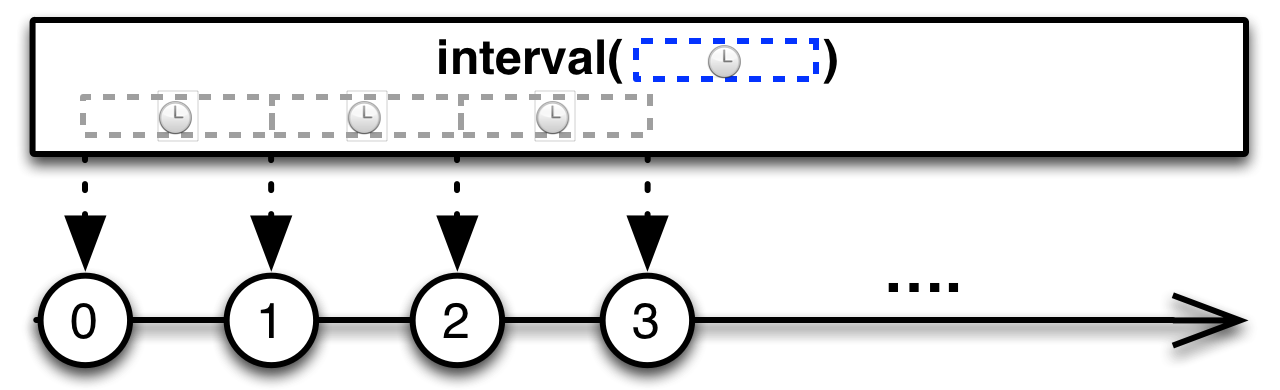
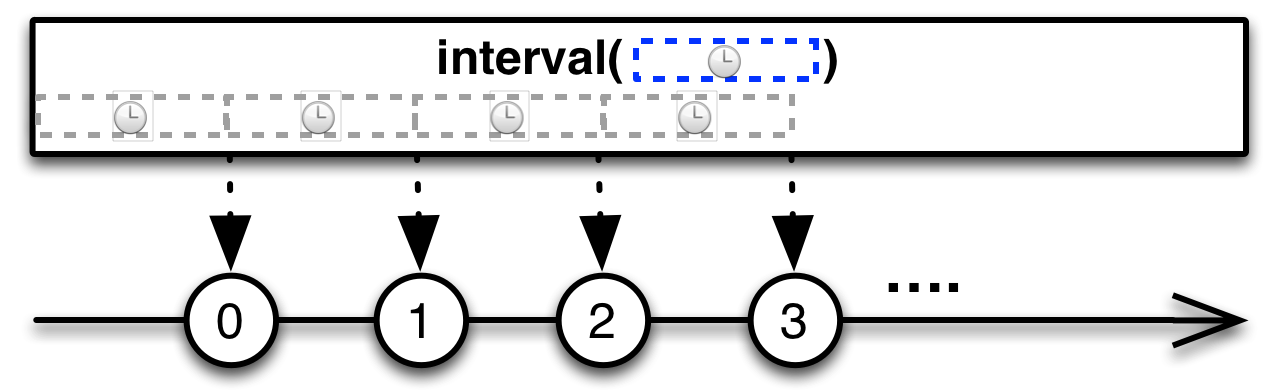
Correcting interval diagrams & description

diff --git a/documentation/operators/interval.html b/documentation/operators/interval.html
@@ -53,7 +53,7 @@ id: interval
      <img src="images/interval.png" style="width:100%;" alt="interval" />
      <figcaption><p>
       RxGroovy implements this operator as <code>interval</code>. It accepts as its parameters a
-      span of time to wait between subsequent emissions and the <code>TimeUnit</code> in which this
+      span of time to wait between emissions and the <code>TimeUnit</code> in which this
       span is measured.
      </p><p>
       <code>interval</code> operates by default on the <code>computation</code>
@@ -78,7 +78,7 @@ id: interval
      <img src="images/interval.png" style="width:100%;" alt="interval" />
      <figcaption><p>
       RxJava implements this operator as <code>interval</code>. It accepts as its parameters a
-      span of time to wait between subsequent emissions and the <code>TimeUnit</code> in which this
+      span of time to wait between emissions and the <code>TimeUnit</code> in which this
       span is measured.
      </p><p>
       <code>interval</code> operates by default on the <code>computation</code>
@@ -103,7 +103,7 @@ id: interval
      <img src="images/interval.png" style="width:100%;" alt="interval" />
      <figcaption><p>
       RxJS implements this operator as <code>interval</code>. It accepts as its parameter the number
-      of milliseconds to wait between subsequent emissions.
+      of milliseconds to wait between emissions.
      </p><p>
       <code>interval</code> operates by default on the <code>timeout</code>
       <a href="../scheduler.html">Scheduler</a>, or you can optionally pass in a different Scheduler as a second
